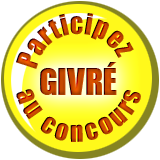
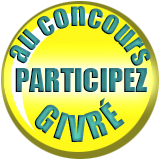
medaillon concours + facebook

diff --git a/contact.html b/contact.html
@@ -16,7 +16,10 @@
 
 <body>
 
-	<img class="pastille_edinautes" alt="Ice3 a été édité par 436 édinautes" src="img/Pastille436Edinautes.png"/>
+	<a href="http://www.mywittygames.com" target="_blank"><img class="pastille_edinautes" alt="Ice3 a été édité par 436 édinautes" src="img/Pastille436Edinautes.png"/></a>
+	<a href="http://www4.fnac.com/Witty-Ice-3/a4107357/w-4"><img class="coup_de_coeur_fnac" alt="Ice3 est sélectionnée par la fnac" src="img/coup_de_coeur_logo_fnac.test5.png"/></a>
+	<a href="http://www.ice3-lejeu.com/concours.php"><img class="medaillon_concours" alt="Le concours givré" src="img/medaillon_concours.png"/></a>
+
 	
 	<div id="conteneur">
 	

diff --git a/presse.html b/presse.html
@@ -16,7 +16,9 @@
 
 <body>
 
-	<img class="pastille_edinautes" alt="Ice3 a été édité par 436 édinautes" src="img/Pastille436Edinautes.png"/>
+	<a href="http://www.mywittygames.com" target="_blank"><img class="pastille_edinautes" alt="Ice3 a été édité par 436 édinautes" src="img/Pastille436Edinautes.png"/></a>
+	<a href="http://www4.fnac.com/Witty-Ice-3/a4107357/w-4"><img class="coup_de_coeur_fnac" alt="Ice3 est sélectionnée par la fnac" src="img/coup_de_coeur_logo_fnac.test5.png"/></a>
+
 
 	<div id="conteneur">
 	

diff --git a/defaut.css b/defaut.css
@@ -161,6 +161,24 @@ img{
 	top: 60%;
 	left: 85%;
 }
+.likebox{
+	position: absolute;
+	/*top: 65.6%;
+	left: 83.5%;*/
+	top: 90%;
+	left: 83.5%;	
+	background-color: white;
+}
+.medaillon_concours{
+	position: absolute;
+	width: 10%;
+	/*top: 70%;
+	left: 80%;*/
+	/*top: 60%;
+	left: 18%;*//*15%;*/
+	top: 9%;
+	left: 5%;
+}
 
 /************** Navigation *****************/
 nav{

diff --git a/index.php b/index.php
@@ -24,18 +24,28 @@
 		ga.src = ('https:' == document.location.protocol ? 'https://ssl' : 'http://www') + '.google-analytics.com/ga.js';
 		var s = document.getElementsByTagName('script')[0]; s.parentNode.insertBefore(ga, s);
 		})();
-
 	</script>
 
 </head>
 
 <body>
+	<!-- SDK Facebook -->
+	<div id="fb-root"></div>
+	<script>(function(d, s, id) {
+	  var js, fjs = d.getElementsByTagName(s)[0];
+	  if (d.getElementById(id)) return;
+	  js = d.createElement(s); js.id = id;
+	  js.src = "//connect.facebook.net/en_US/all.js#xfbml=1";
+	  fjs.parentNode.insertBefore(js, fjs);
+	}(document, 'script', 'facebook-jssdk'));</script>
+	<!-- Fin SDK Facebook -->
 
 	<a href="http://www.mywittygames.com" target="_blank"><img class="pastille_edinautes" alt="Ice3 a été édité par 436 édinautes" src="img/Pastille436Edinautes.png"/></a>
-	<!--<img class="coup_de_coeur_fnac" alt="Ice3 est coup de coeur fnac" src="img/coup_de_coeur_fnac.png"/>-->
 	<a href="http://www4.fnac.com/Witty-Ice-3/a4107357/w-4"><img class="coup_de_coeur_fnac" alt="Ice3 est sélectionnée par la fnac" src="img/coup_de_coeur_logo_fnac.test5.png"/></a>
-	<!--<img class="logo_fnac" alt="Ice3 est sélectionnée par la fnac" src="img/logo_fnac.png"/>
-	<img class="logo_fnac_com" alt="Ice3 est sélectionnée par la fnac" src="img/logo_fnac_com.gif"/>-->
+	<div class="likebox">
+		<div class="fb-like-box" data-href="http://www.facebook.com/pages/Le-jeu-le-plus-givr%C3%A9-de-lann%C3%A9e/219069664799259" data-width="292" data-show-faces="true" data-stream="false" data-header="true"></div>
+	</div>
+	<a href="concours.php"><img class="medaillon_concours" alt="Le concours givré" src="img/medaillon_concours.png"/></a>
 	
 	<div id="conteneur">
 	
@@ -59,7 +69,7 @@
 			<div class="spacer"></div>
 			<a class="nav_concours" href="concours.php">
 				<img class="image_bouton image_bouton_concours" alt="Concours Ice3" src="img/bouton_concours.png"/>
-			</a>		
+			</a>
 			<div class="spacer"></div>
 			<!--<a class="nav_jeuflash" href="jeu-ice3.html">
 				<img class="image_bouton image_bouton_jeuflash" alt="Jeu flash Ice3" src="img/bouton_jeuflash.png"/>

diff --git a/concours.php b/concours.php
@@ -57,7 +57,8 @@ if (isset($_POST['mail'])){
 
 <body>
 
-	<img class="pastille_edinautes" alt="Ice3 a été édité par 436 édinautes" src="img/Pastille436Edinautes.png"/>
+	<a href="http://www.mywittygames.com" target="_blank"><img class="pastille_edinautes" alt="Ice3 a été édité par 436 édinautes" src="img/Pastille436Edinautes.png"/></a>
+	<a href="http://www4.fnac.com/Witty-Ice-3/a4107357/w-4"><img class="coup_de_coeur_fnac" alt="Ice3 est sélectionnée par la fnac" src="img/coup_de_coeur_logo_fnac.test5.png"/></a>
 	
 	<div id="conteneur">
 
